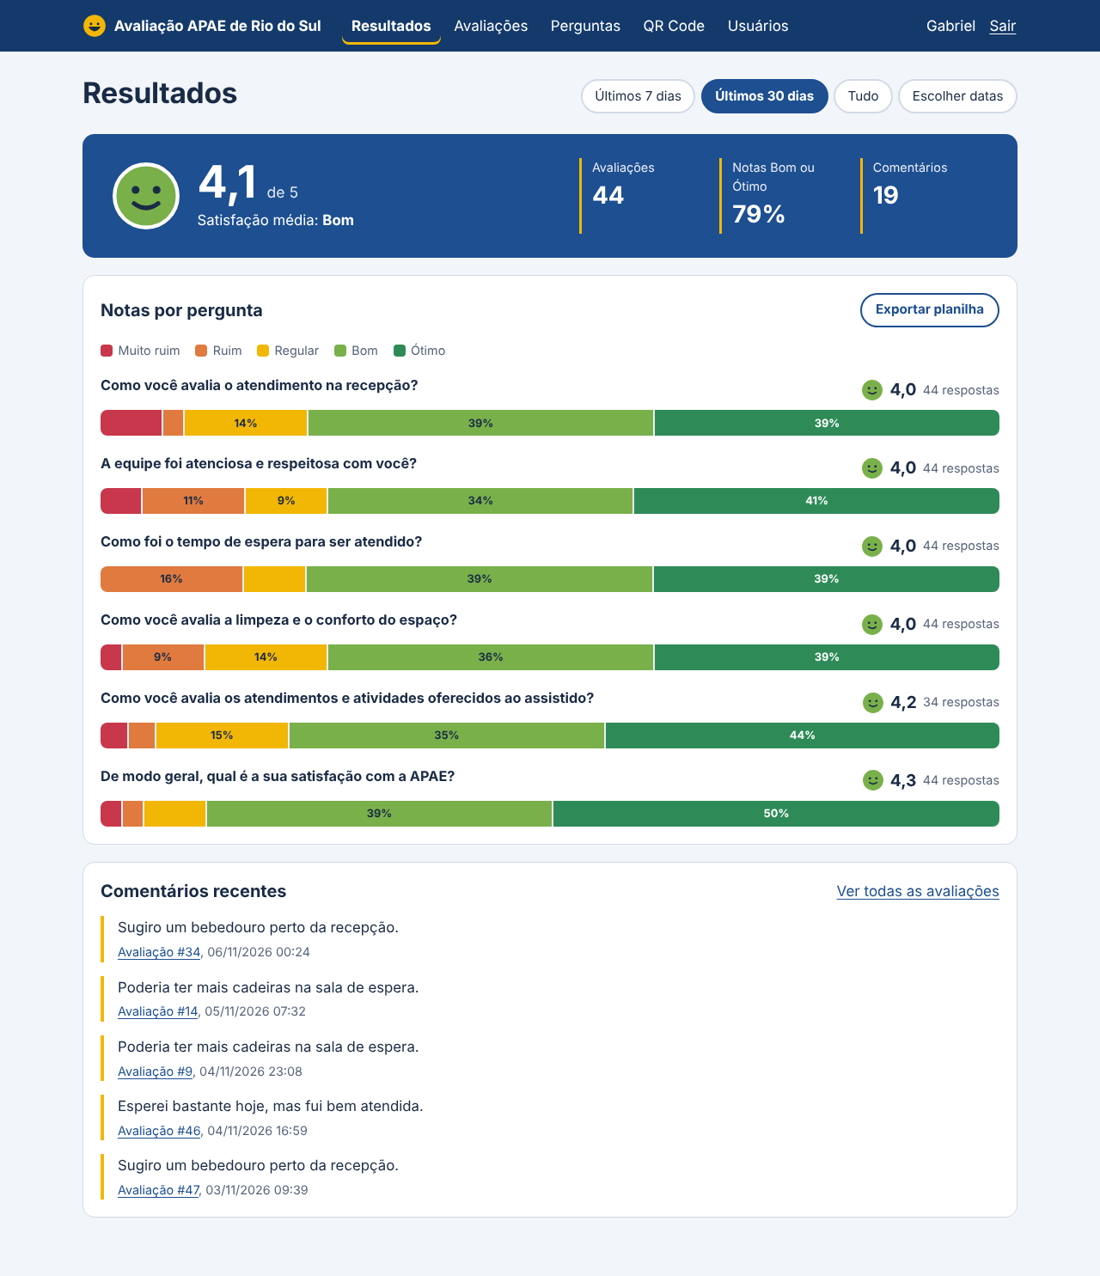
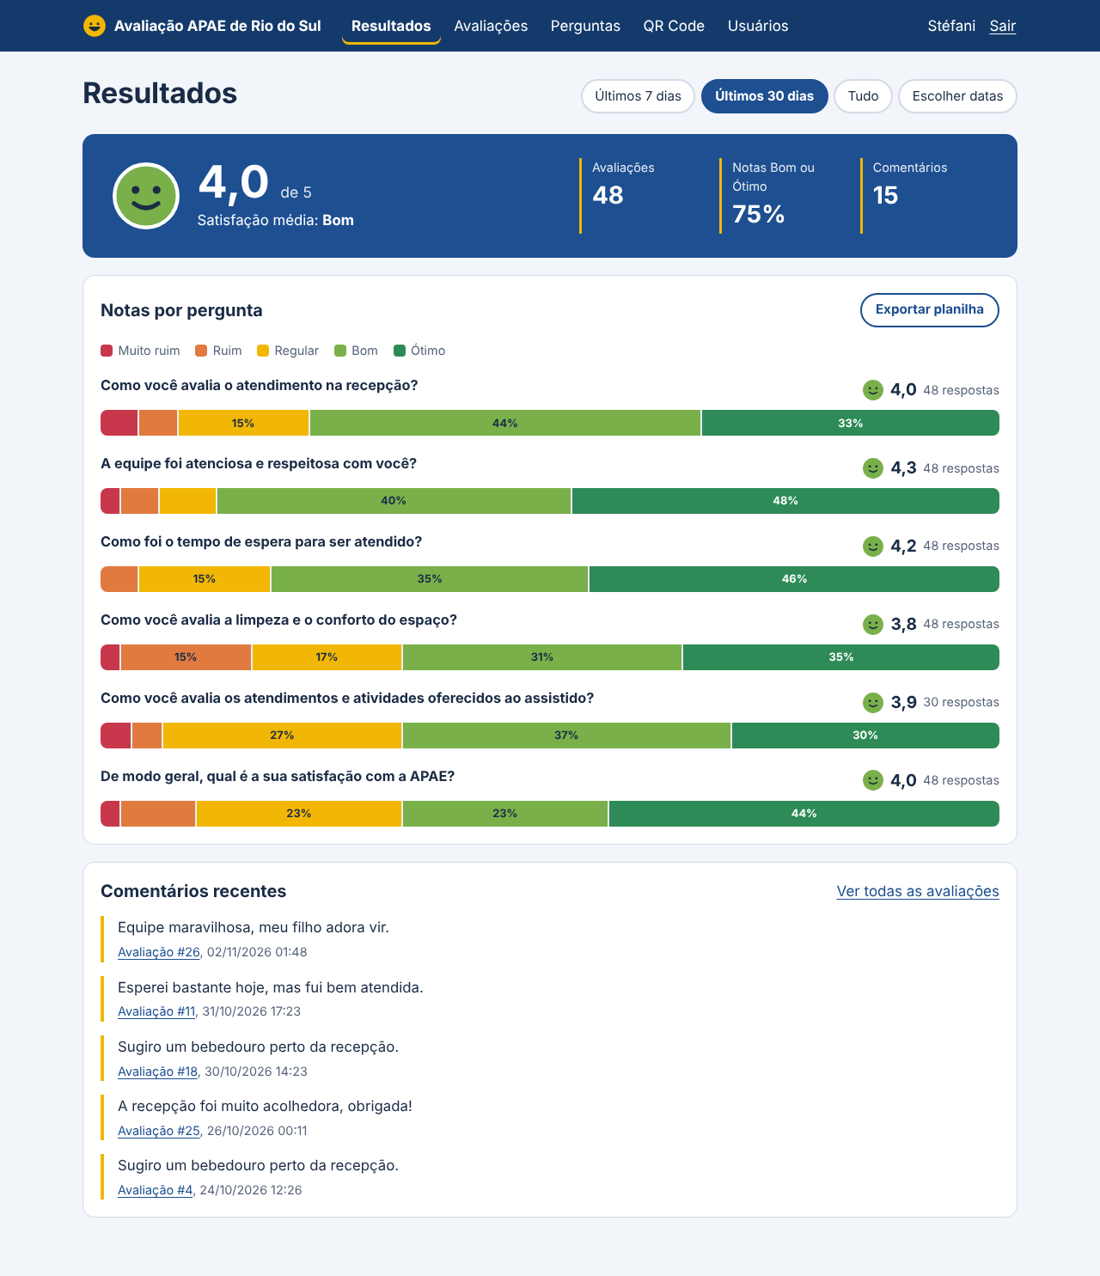
Reescreve o README e atualiza a imagem do painel

diff --git a/README.md b/README.md
@@ -1,156 +1,59 @@
-# Questionário de Avaliação · APAE de Rio do Sul
+# Questionário de Avaliação da APAE de Rio do Sul
 
-Sistema web para a **APAE de Rio do Sul (SC)** coletar, de forma anônima, a avaliação de familiares, responsáveis e visitantes sobre o atendimento.
-Na recepção fica um **cartaz com QR Code**: a pessoa aponta o celular, responde tocando em carinhas, e a equipe acompanha os resultados num painel protegido por senha.
+Sistema web para a APAE de Rio do Sul receber avaliações sobre o atendimento. Familiares, responsáveis e visitantes leem um QR Code na recepção, respondem pelo celular sem se identificar, e a equipe da instituição acompanha os resultados em uma área restrita.
 
-Projeto de Extensão · Sistemas de Informação · Unidavi · Programação Web I
-
-**Documento de requisitos:** [`docs/requisitos.md`](docs/requisitos.md)
+Projeto de Extensão da disciplina de Programação Web I, curso de Sistemas de Informação da Unidavi.
 
 <p>
-  <img src="docs/img/questionario-celular.png" alt="Questionário no celular" width="240">
-  <img src="docs/img/painel.png" alt="Painel de resultados" width="560">
+  <img src="docs/img/questionario-celular.png" alt="Questionário aberto no celular" width="240">
+  <img src="docs/img/painel.png" alt="Painel de resultados da equipe" width="560">
 </p>
 
 ## Funcionalidades
 
-| Para quem | O que faz |
-|---|---|
-| Público (sem login) | Questionário anônimo com carinhas de 1 a 5 e comentário; modo totem para tablet na recepção |
-| Equipe (com login) | Painel com média, % de notas positivas e distribuição por pergunta, com filtro por período |
-| | Lista e detalhe das avaliações, exclusão de testes e exportação para Excel (CSV) |
-| | Cadastro, edição, ordenação e ativação de perguntas |
-| | Cartaz A4 com QR Code para imprimir |
-| | Cadastro de usuários e troca de senha |
+- Questionário anônimo com notas de 1 a 5 (carinhas) e campo para comentários
+- Login da equipe da APAE
+- Cadastro, edição, ordenação e desativação de perguntas
+- Painel com a média geral, a distribuição das notas e os comentários, com filtro por período
+- Exportação das respostas para planilha
+- Cartaz com QR Code pronto para imprimir
+- Cadastro de usuários da equipe
+
+Os requisitos completos estão em [docs/requisitos.md](docs/requisitos.md).
 
 ## Tecnologias
 
-- PHP 8.1+ sem framework, com PDO
-- PostgreSQL 13+
-- HTML, CSS e JavaScript puros
-- [qrcode-generator](https://github.com/kazuhikoarase/qrcode-generator) (licença MIT) em `public/assets/vendor/`
-- Docker para publicação
+PHP 8 com PDO, PostgreSQL, HTML, CSS e JavaScript, organizados no padrão MVC.
 
-## Segurança e privacidade
+## Como executar
 
-- Consultas parametrizadas (SQL Injection) e saída escapada com `htmlspecialchars` (XSS)
-- Token CSRF em todos os formulários que alteram dados
-- Senhas com `password_hash`; sessão com `HttpOnly`, `SameSite` e regeneração de ID no login
-- Bloqueio de login após 5 tentativas erradas em 15 minutos
-- Questionário anônimo: não grava nome, contato nem IP (LGPD)
+1. Instale o PostgreSQL e o PHP 8.1 ou mais recente (o PHP do XAMPP serve).
+2. No `php.ini`, habilite as extensões `pdo_pgsql` e `pgsql`.
+3. Execute o `iniciar.bat`. Na primeira vez ele abre o arquivo `.env`: informe a senha do PostgreSQL em `DB_PASSWORD`, salve e execute o `iniciar.bat` novamente.
+4. Acesse `http://localhost:8080` para o questionário e `http://localhost:8080/admin` para a área da equipe.
 
-## Como rodar no Windows (XAMPP)
+O banco de dados, as tabelas, as perguntas iniciais e o primeiro usuário são criados automaticamente.
 
-1. Instale o **PostgreSQL** (<https://www.postgresql.org/download/windows/>) e anote a senha do usuário `postgres`.
-2. No `C:\xampp\php\php.ini`, apague o `;` do começo das linhas `extension=pdo_pgsql` e `extension=pgsql`.
-3. Dê dois cliques em **`iniciar.bat`**. Na primeira vez ele abre o arquivo `.env`: coloque a senha do PostgreSQL em `DB_PASSWORD=`, salve e rode o `iniciar.bat` de novo.
-4. Questionário: <http://localhost:8080> · Área da equipe: <http://localhost:8080/admin/> (login definido em `ADMIN_EMAIL` e `ADMIN_SENHA` no `.env`).
-
-O banco, as tabelas, as perguntas padrão e o primeiro administrador são criados automaticamente pelo `scripts/migrate.php`.
-
-Pelo Apache do XAMPP, coloque o projeto em `C:\xampp\htdocs\apae` e acesse `http://localhost/apae/public/` (o `.htaccess` cuida das URLs).
-
-### Linux / macOS
-
-```bash
-cp .env.example .env        # ajuste os dados do banco e do administrador
-php scripts/migrate.php
-php -S localhost:8080 -t public public/index.php
-```
-
-## Publicação (Render + Neon)
-
-1. **Neon** (<https://neon.com>): crie um projeto na região *AWS US East 1* e copie a connection string **sem** connection pooling.
-2. **Render** (<https://render.com>): *New → Blueprint*, escolha este repositório. O `render.yaml` já define Docker, plano gratuito e região. Preencha:
-   - `DATABASE_URL`: a connection string do Neon
-   - `ADMIN_EMAIL` e `ADMIN_SENHA`: o primeiro administrador
-   - `APP_URL`: o endereço gerado pelo Render (ex.: `https://apae-avaliacao.onrender.com`), usado no QR Code
-3. Depois do deploy, entre em `/admin/`, troque a senha em **Minha conta** e imprima o cartaz em **QR Code**.
-
-> No plano gratuito, o Render suspende o site após 15 minutos sem acesso, e o primeiro acesso seguinte leva cerca de 1 minuto.
-> Um monitor gratuito (ex.: UptimeRobot) acessando `/saude` a cada 10 minutos mantém o site ativo.
-
-### Variáveis de ambiente
-
-| Variável | Para que serve |
-|---|---|
-| `DATABASE_URL` | Conexão completa com o PostgreSQL (tem prioridade sobre `DB_*`) |
-| `DB_HOST`, `DB_PORT`, `DB_NAME`, `DB_USER`, `DB_PASSWORD` | Conexão em partes (uso local) |
-| `APP_URL` | Endereço público usado no QR Code |
-| `APP_NOME` | Nome exibido (padrão: APAE de Rio do Sul) |
-| `APP_ENV` | `production` esconde detalhes técnicos dos erros |
-| `ADMIN_NOME`, `ADMIN_EMAIL`, `ADMIN_SENHA` | Primeiro administrador (criado só se não houver usuários) |
-| `TRUST_PROXY` | `1` atrás de proxy (Render), para o limite de login usar o IP real |
-
-## Logotipo
-
-Coloque o logo oficial (com autorização da APAE) em `public/assets/img/logo.png`. Ele aparece automaticamente no topo do questionário.
-
-## Arquitetura (MVC)
-
-Toda requisição passa pelo **front controller** `public/index.php`, que usa o **roteador** para chamar o método do controller certo.
-O **controller** valida a entrada, usa os **models** para ler e gravar no banco e entrega os dados para a **view**, que monta o HTML.
+## Estrutura
 
 ```text
 app/
-  Controllers/    recebem a requisição e decidem o que fazer
-    QuestionarioController   questionário público e agradecimento
-    AuthController           entrar e sair
-    PainelController         painel de resultados
-    AvaliacaoController      lista, detalhe, exclusão e exportação CSV
-    PerguntaController       cadastro, edição, ordem, ativação e exclusão
-    QrCodeController         cartaz com QR Code
-    UsuarioController        administradores
-    ContaController          troca de senha
-    SaudeController          verificação de saúde (/saude)
-  Models/         acesso ao banco e regras de negócio
-    Pergunta, Avaliacao, Usuario
-  Views/          HTML (templates)
-    layouts/                 estrutura das páginas pública e administrativa
-    questionario/            formulário e agradecimento
-    admin/                   telas da área da equipe
-  Core/           infraestrutura
-    Router, Controller (base), View, Database (PDO), Auth, helpers
-  bootstrap.php   carrega configuração, autoload e sessão
-config/
-  config.php      leitura do .env e variáveis de ambiente
-  rotas.php       mapa de URLs para controllers
-public/           única pasta acessível pela web
-  index.php       front controller
-  .htaccess       URLs amigáveis no Apache (XAMPP)
-  assets/         CSS, JavaScript, imagens e biblioteca de QR Code
-database/         criação das tabelas e perguntas padrão
-scripts/          instalação do banco (migrate.php)
-docker/           inicialização do contêiner e detecção do PHP no Windows
-docs/             documento de requisitos e imagens
+  Controllers/   recebem as requisições
+  Models/        acesso ao banco de dados
+  Views/         páginas HTML
+  Core/          roteador, conexão e autenticação
+config/          configurações e rotas
+public/          arquivos acessíveis pelo navegador
+database/        script de criação do banco
+docs/            documento de requisitos
 ```
-
-### Rotas
-
-| Método | URL | Controller | Ação |
-|---|---|---|---|
-| GET / POST | `/` | Questionario | exibir / enviar |
-| GET | `/obrigado` | Questionario | obrigado |
-| GET | `/saude` | Saude | verificar |
-| GET / POST | `/admin/login` | Auth | formulario / entrar |
-| POST | `/admin/sair` | Auth | sair |
-| GET | `/admin` | Painel | index |
-| GET | `/admin/avaliacoes` | Avaliacao | index |
-| GET | `/admin/avaliacoes/exportar` | Avaliacao | exportar |
-| GET | `/admin/avaliacoes/{id}` | Avaliacao | mostrar |
-| POST | `/admin/avaliacoes/{id}/excluir` | Avaliacao | excluir |
-| GET | `/admin/perguntas` | Pergunta | index |
-| GET / POST | `/admin/perguntas/nova`, `/admin/perguntas` | Pergunta | criar / salvar |
-| GET / POST | `/admin/perguntas/{id}/editar`, `/admin/perguntas/{id}` | Pergunta | editar / atualizar |
-| POST | `/admin/perguntas/{id}/mover`, `/alternar`, `/excluir` | Pergunta | mover / alternar / excluir |
-| GET | `/admin/qrcode` | QrCode | index |
-| GET / POST | `/admin/usuarios` | Usuario | index / salvar |
-| POST | `/admin/usuarios/{id}/alternar` | Usuario | alternar |
-| GET / POST | `/admin/conta` | Conta | index / alterarSenha |
 
 ## Equipe
 
-- _Nome do integrante 1_
-- _Nome do integrante 2_
+- Bruna
+- Ronaldo
+- Stéfani
 
-Unidavi · 2026
+Professor: Sandro
+
+Unidavi, 2026
